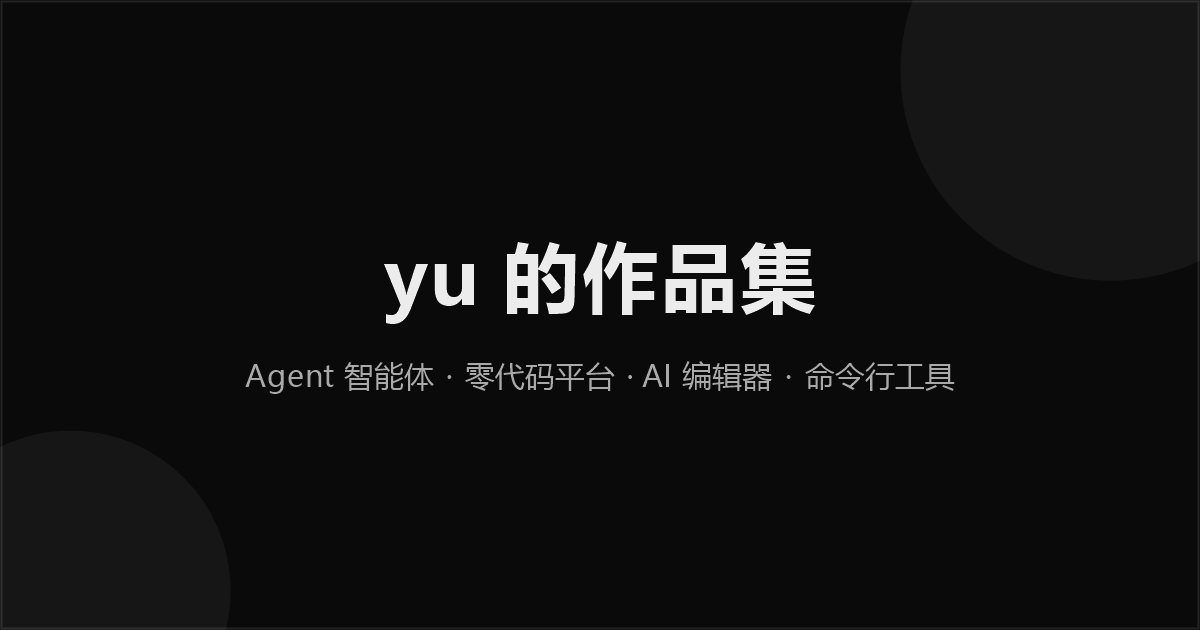
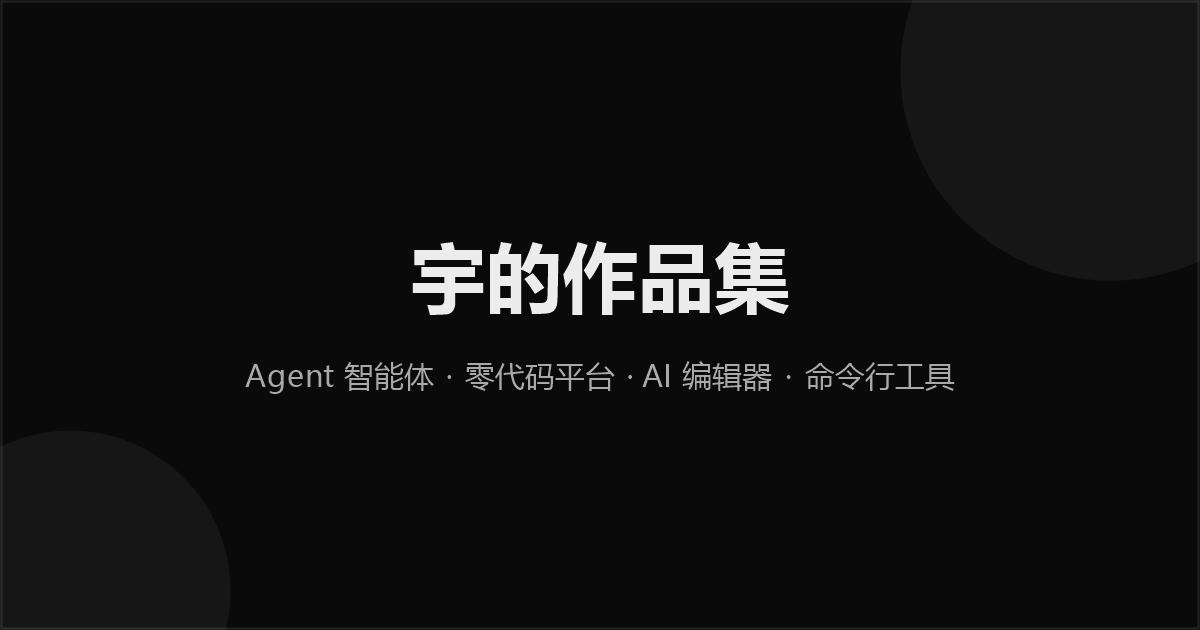
feat: 替换真实个人信息（M5）
- profile：姓名「宇」、简介「爱折腾的开发者…」、真实邮箱 tmy040211@outlook.com、
  社交仅保留本人 GitHub（其余平台待补充）；about 三段按新身份改写
- Hero/Footer：h1 与版权行改读 profile.name，消除组件内硬编码「yu」（AGENTS §7）
- index.html：title / description / OG / Twitter 全套改「宇的作品集」
- YuLogo：aria-label 改「宇（yu）字标」，注释注明 yu = 宇 的拼音
- projects：5 条示例条目链接由 example.com 死链与他人账号 github.com/yu/* 改为
  本人 GitHub 主页（真实可达），install 命令改 @y0u41/pack，并在文件头标注示例状态
- avatar.svg：通用人形占位改为「宇」字标单色圆牌
- og-image.png：按新文案重新生成（19.4KB）

验证：lint / typecheck / build（--base=/AI-Learning-Assistant-yu/）三项通过；
JS gzip 94.07KB、CSS gzip 12.45KB；产物 head 的 title/OG/JSON-LD 均为新资料，
字体 preload 携带子路径 base。

Changed region(s): [[0.3083, 0.3619, 0.6783, 0.5127]]

diff --git a/src/data/projects.ts b/src/data/projects.ts
@@ -2,12 +2,19 @@ import type { Project } from '../types';
 
 /**
  * 作品数据（PRD §8 / Tech_Design §5）—— ★ 唯一需要经常修改的文件。
- * 每种作品类型各 ≥ 1 条样例，兼作数据契约演示（M1 占位内容，M5 上线前替换真实素材）。
+ *
+ * ⚠ 当前状态（M5）：以下 5 条为**示例条目**，用于演示 5 种作品类型、筛选 Tab 计数
+ * 与卡片各交互（含 install 复制胶囊），作品本身并非真实成果。所有链接统一指向
+ * 本人 GitHub 主页，避免出现指向他人账号的外链或失效地址（AGENTS §6 硬约束：links ≥ 1）。
+ * TODO(M5)：替换为真实作品——封面放 public/projects/<id>/ → 本文件按 SOP 逐条改写/追加。
  *
  * 新增作品流程（AGENTS §11.1）：素材放 public/projects/<id>/ → 本文件追加一条 Project 记录
  * → dev 验证 → 独立提交 `feat: 收录 <作品名>`。禁止为单个项目写硬编码 JSX。
  * 硬约束（AGENTS §6）：id 唯一、links ≥ 1、tagline ≤ 60 字、pinned ≤ 3、封面必须带 width/height。
  */
+/** 示例条目统一外链目标：本人 GitHub 主页（真实可达） */
+const PROFILE_URL = 'https://github.com/y0u41';
+
 export const projects: Project[] = [
   {
     id: 'resume-agent',
@@ -16,9 +23,9 @@ export const projects: Project[] = [
     tagline: '多智能体协作的简历诊断与改写助手',
     techStack: ['LangGraph', 'GLM', 'FastAPI'],
     links: [
-      { kind: 'demo', url: 'https://example.com/demo/resume-agent' },
-      { kind: 'repo', url: 'https://github.com/yu/resume-agent' },
-      { kind: 'article', url: 'https://example.com/post/resume-agent' },
+      { kind: 'demo', url: PROFILE_URL },
+      { kind: 'repo', url: PROFILE_URL },
+      { kind: 'article', url: PROFILE_URL },
     ],
     cover: {
       type: 'image',
@@ -38,8 +45,8 @@ export const projects: Project[] = [
     tagline: '拖拽式流程编排的企业级零代码应用搭建平台',
     techStack: ['React', 'NestJS', 'PostgreSQL'],
     links: [
-      { kind: 'demo', url: 'https://example.com/demo/flow' },
-      { kind: 'repo', url: 'https://github.com/yu/flow' },
+      { kind: 'demo', url: PROFILE_URL },
+      { kind: 'repo', url: PROFILE_URL },
     ],
     date: '2026-05',
     pinned: true,
@@ -51,8 +58,8 @@ export const projects: Project[] = [
     tagline: '一键打包并发布多平台产物的命令行工具',
     techStack: ['Node.js', 'TypeScript', 'esbuild'],
     links: [
-      { kind: 'install', url: 'https://github.com/yu/pack#readme', command: 'npm i -g @yu/pack' },
-      { kind: 'repo', url: 'https://github.com/yu/pack' },
+      { kind: 'install', url: PROFILE_URL, command: 'npm i -g @y0u41/pack' },
+      { kind: 'repo', url: PROFILE_URL },
     ],
     date: '2026-06',
   },
@@ -63,8 +70,8 @@ export const projects: Project[] = [
     tagline: '内置 AI 助手、补全与重构建议的轻量代码编辑器',
     techStack: ['Electron', 'TypeScript', 'Monaco'],
     links: [
-      { kind: 'repo', url: 'https://github.com/yu/yu-editor' },
-      { kind: 'download', url: 'https://example.com/download/yu-editor' },
+      { kind: 'repo', url: PROFILE_URL },
+      { kind: 'download', url: PROFILE_URL },
     ],
     date: '2026-03',
   },
@@ -74,7 +81,7 @@ export const projects: Project[] = [
     type: 'other',
     tagline: '个人开发环境配置与自动化脚本合集',
     techStack: ['Shell', 'Neovim'],
-    links: [{ kind: 'repo', url: 'https://github.com/yu/dotfiles' }],
+    links: [{ kind: 'repo', url: PROFILE_URL }],
     date: '2026-01',
   },
 ];

diff --git a/index.html b/index.html
@@ -7,18 +7,18 @@
     <meta name="theme-color" content="#0A0A0A" />
     <meta
       name="description"
-      content="yu 的作品集：Agent 智能体、零代码平台、AI 代码编辑器、命令行工具等多类型作品的单页展示。"
+      content="宇的作品集：爱折腾的开发者，收录 Agent 智能体、零代码平台、AI 代码编辑器、命令行工具等多类型作品的单页展示。"
     />
-    <title>yu 的作品集</title>
+    <title>宇的作品集</title>
     <!-- M4（Build.md §2.5）：OG / Twitter 分享标签；OG 协议要求绝对 URL——
          域名为 GitHub Pages 子路径（M5），切换 Vercel 等根域名托管时同步更新 -->
     <meta property="og:type" content="website" />
     <meta property="og:url" content="https://y0u41.github.io/AI-Learning-Assistant-yu/" />
-    <meta property="og:site_name" content="yu 的作品集" />
-    <meta property="og:title" content="yu 的作品集" />
+    <meta property="og:site_name" content="宇的作品集" />
+    <meta property="og:title" content="宇的作品集" />
     <meta
       property="og:description"
-      content="yu 的作品集：Agent 智能体、零代码平台、AI 代码编辑器、命令行工具等多类型作品的单页展示。"
+      content="宇的作品集：爱折腾的开发者，收录 Agent 智能体、零代码平台、AI 代码编辑器、命令行工具等多类型作品的单页展示。"
     />
     <meta
       property="og:image"
@@ -28,14 +28,14 @@
     <meta property="og:image:height" content="630" />
     <meta
       property="og:image:alt"
-      content="yu 的作品集——Agent 智能体 · 零代码平台 · AI 编辑器 · 命令行工具"
+      content="宇的作品集——Agent 智能体 · 零代码平台 · AI 编辑器 · 命令行工具"
     />
     <meta property="og:locale" content="zh_CN" />
     <meta name="twitter:card" content="summary_large_image" />
-    <meta name="twitter:title" content="yu 的作品集" />
+    <meta name="twitter:title" content="宇的作品集" />
     <meta
       name="twitter:description"
-      content="yu 的作品集：Agent 智能体、零代码平台、AI 代码编辑器、命令行工具等多类型作品的单页展示。"
+      content="宇的作品集：爱折腾的开发者，收录 Agent 智能体、零代码平台、AI 代码编辑器、命令行工具等多类型作品的单页展示。"
     />
     <meta
       name="twitter:image"

diff --git a/src/data/profile.ts b/src/data/profile.ts
@@ -3,22 +3,21 @@ import type { Profile } from '../types';
 /**
  * 个人信息数据（PRD §8 / Tech_Design §5 Profile）。
  * 维护方式：只改本文件即全站生效，禁止在组件中硬编码（AGENTS §7）。
- * TODO(M5): 上线前替换为真实头像 / 邮箱 / 社交链接。
+ * TODO(M5): 头像仍为「宇」字标占位，替换真实照片时把图片放入 public/ 并改 avatar 字段即可；
+ *           其余平台社交链接（掘金 / X / B 站等）待本人补充后追加到 socials 数组。
  */
 export const profile: Profile = {
-  name: 'yu',
-  tagline: '把想法快速做成能用的产品：Agent、低代码与效率工具',
+  name: '宇',
+  tagline: '爱折腾的开发者：把想法快速做成能用的 Agent、低代码平台与 AI 工具',
   roles: ['Agent 开发', '低代码', '工具控'],
   avatar: 'avatar.svg', // 相对资源名；展示层用 import.meta.env.BASE_URL 拼接（兼容 Pages 子路径部署）
   aboutParagraphs: [
-    '我是 yu，喜欢把「重复劳动」变成「一键完成」：从 Agent 智能体、零代码平台，到 AI 代码编辑器和命令行工具，我做的东西都围绕同一个目标——让好的想法更快落地。',
+    '我是宇，一个爱折腾的人：喜欢把「重复劳动」变成「一键完成」。从 Agent 智能体、零代码平台，到 AI 代码编辑器和命令行工具，做的东西都围绕同一个目标——让好的想法更快落地。',
     '日常在 TypeScript 与 Python 之间切换，用 LangGraph 编排多智能体，用 React 与 Node.js 搭建产品原型；比起堆功能，我更在意交互是否顺手、维护是否省心。',
     '工作之外是重度工具控：终端、编辑器、快捷键、自动化脚本都有自己的一套。这里收录了我的代表性作品，欢迎按类型浏览，也欢迎通过邮件或 GitHub 联系我。',
   ],
-  email: 'yu@example.com',
+  email: 'tmy040211@outlook.com',
   socials: [
-    { platform: 'GitHub', url: 'https://github.com/yu', icon: 'github' },
-    { platform: '掘金', url: 'https://juejin.cn/user/yu', icon: 'link' },
-    { platform: 'X（Twitter）', url: 'https://x.com/yu', icon: 'twitter' },
+    { platform: 'GitHub', url: 'https://github.com/y0u41', icon: 'github' },
   ],
 };

diff --git a/src/components/sections/Footer.tsx b/src/components/sections/Footer.tsx
@@ -1,14 +1,18 @@
 import YuLogo from '../logo/YuLogo';
+import { profile } from '../../data/profile';
 
 /**
  * 页脚（PRD F6）：静态 YuLogo（animated=false，Tech_Design §9）+ 版权 + 回顶部。
+ * 版权行姓名取自 data（AGENTS §7 禁止组件内硬编码内容）。
  */
 export default function Footer() {
   return (
     <footer className="border-t border-ink-border">
       <div className="mx-auto flex max-w-content flex-col items-center gap-4 px-6 py-10 text-sm text-ink-tertiary">
         <YuLogo size={56} animated={false} />
-        <p>© {new Date().getFullYear()} yu · Designed &amp; Built by yu</p>
+        <p>
+          © {new Date().getFullYear()} {profile.name} · Designed &amp; Built by {profile.name}
+        </p>
         <a href="#top" aria-label="回到顶部" className="transition-colors hover:text-ink-primary">
           ↑ 顶部
         </a>

diff --git a/src/components/logo/YuLogo.tsx b/src/components/logo/YuLogo.tsx
@@ -11,7 +11,7 @@ interface YuLogoProps {
 /** sessionStorage 标记：描边入场每会话只播一次（Tech_Design §9） */
 const INTRO_KEY = 'yu-logo-intro';
 
-/** "yu" 连笔字标路径（圆头笔画，y 尾与 u 起笔连续成弧，PRD §6.5 流动母题） */
+/** "yu" 连笔字标路径（=「宇」的拼音，圆头笔画，y 尾与 u 起笔连续成弧，PRD §6.5 流动母题） */
 const LETTER_PATH =
   'M14 14 V34 Q14 50 30 48 Q40 46 48 34 L48 20 V38 Q48 52 62 50 Q76 48 76 34 V20';
 
@@ -43,7 +43,7 @@ export default function YuLogo({ size = 48, animated = true }: YuLogoProps) {
       height={Math.round((size * 72) / 128)}
       viewBox="0 0 128 72"
       role="img"
-      aria-label="yu"
+      aria-label="宇（yu）字标"
     >
       <defs>
         <clipPath id={clipId}>

diff --git a/src/components/sections/Hero.tsx b/src/components/sections/Hero.tsx
@@ -15,7 +15,10 @@ export default function Hero() {
       {/* "yu" 字标：导航 / Hero / Footer 三处复用（Tech_Design §9） */}
       <YuLogo size={96} animated />
 
-      <h1 className="text-4xl font-semibold text-ink-primary md:text-6xl">yu 的作品集</h1>
+      {/* 标题文案取自 data（AGENTS §7 禁止组件内硬编码内容） */}
+      <h1 className="text-4xl font-semibold text-ink-primary md:text-6xl">
+        {profile.name}的作品集
+      </h1>
 
       <p className="max-w-xl text-base text-ink-secondary md:text-lg">{profile.tagline}</p>
 

diff --git a/src/types/index.ts b/src/types/index.ts
@@ -16,7 +16,7 @@ export interface ProjectLink {
   label?: string;
   /** 跳转地址；kind === 'install' 时指向安装/使用文档 */
   url: string;
-  /** 待复制命令，仅 kind === 'install' 时使用（如 npm i -g @yu/pack） */
+  /** 待复制命令，仅 kind === 'install' 时使用（如 npm i -g @y0u41/pack） */
   command?: string;
 }
 
